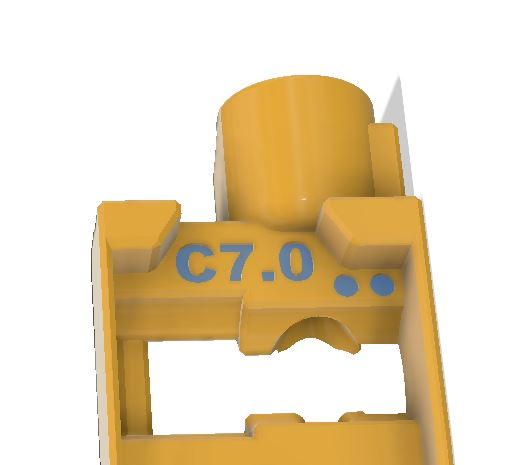
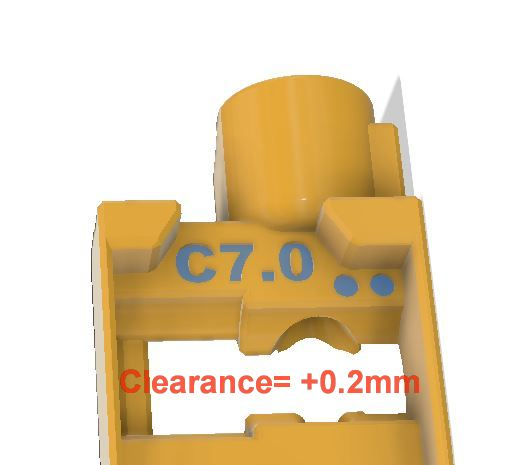
Update STL, images, readme.

Changed region(s): [[0.2367, 0.7828, 0.8284, 0.8731]]

diff --git a/STL/Sturdy Bunny/Rev_C/README.md b/STL/Sturdy Bunny/Rev_C/README.md
@@ -1,33 +1,70 @@
-# **Some notes on how to use the version C6**
+# **Some notes on how to use the version C6 and C7**
 ## **Warning**
-Version  C6 only works with Sturdy Bunny or coming soon V2.
+* **Version  C6 and C7 only works with Sturdy Bunny or coming soon V2.**
+* **Version C7 only works with Happy Hare V2 and his 3 positions servo capability.**
+* **Version C7 tophat can't work if you have the 2 magnets on your encoder cart.**
 
-**For version C, the screw on top of the latch is not needed. You can also use the original latch from the Sturdy Bunny github.**
+* **For best results with the C6 magnet release trap, be sure to use **N52 Magnets** on the encoder and the top of the filament exit. Secure the magnets in the encoder with a drop of glue, otherwise they will pop out when they are above the gate magnet.**
 
-**For best results, be sure to use **N52 Magnets** on the encoder and the top of the filament exit. Secure the magnets in the encoder with a drop of glue, otherwise they will pop out when they are above the gate magnet.**
+ For all versions, print print the latch **[a]Triple_Decky_Latch_RevC6_0.stl** from the folder STL\Sturdy Bunny\Rev_C
 
+## **What to print for Revision C7 for 3 positions servo brake release ONLY ?**
+From folder ..\STL\Sturdy Bunny\Rev_C\Rev_C7.0_3PS_only
+  * print either the **Triple_Decky_Base_C7_0.stl** and the **Triple_Decky_Filament_Path_3PS_C7_0.stl** 
+    * If you experience problems with the parts not fitting freely together, you can try one of the extended clearance options under the **..\STL\Sturdy Bunny\Rev_C\Rev_C7.0_3PS_only\Clearance_options folder.**
+  * print either the tophat : **[a]Triple_Decky_Tophat-Integrated_3PS_C7_0.stl**.
+    * or the optional 2 parts tophat from the ..\STL\Sturdy Bunny\Rev_C\Rev_C7.0_3PS_only\2 parts tophat option folder **[a]Triple_Decky_Half_Tophat-integerated_3PS_C70a.stl** and **[a]Triple_Decky_Half_Tophat-integerated_3PS_C70b.stl**
+  
+From folder ..\STL\Sturdy Bunny\Rev_C\Tag_plates
 
+  * print the multicolor **Triple_Decky_Tag_Plates_X.stl** from the **Tag_Plates** folder for the Triple_Decky_Base
 
+From folder ..\STL\Sturdy Bunny\Rev_C\Traps 
+  * print the trap of your choice from the Traps folder. Experiment to find the one that gives the better holding capability.
+     *  **TD_Base_Trap_C5_Screw.stl** (This one needs a set screw M3x3)
+      *  **TD_Base_Trap_C5_V-Shape.stl**<p>
+
+From folder ..\STL\Sturdy Bunny\Rev_C\Servo_arms_for_3PS
+  * print the servo arm corresponding to your servo.
 
 ## **What to print for Revision C6 for magnet brakes release ?**
+From folder ..\STL\Sturdy Bunny\Rev_C\Rev_C6.3
+  * print the **Triple_Decky_Base_C6_3.stl** 
+  
+From folder ..\STL\Sturdy Bunny\Rev_C\Rev_C6.3\Filament_Path_With_Magnets
 
-  * print the **Triple_Decky_Base_C6_0.stl** 
-  * print **Triple_Decky_Filament_Path_For_Magnet_C6_3.stl** from the folder Filament_Path_with_magnets.
-  * print the multicolor **Triple_Decky_Tag_Plates_X.stl** from the **Base_Tag_Plates** folder for the Triple_Decky_Base
-  * print the tophat : **[a]Triple_Decky_Tophat-Integrated_For_Magnet_C6_2.stl**.
-  * print the latch **[a]Triple_Decky_Latch_RevC6_0.stl**
+  * print **Triple_Decky_Filament_Path_For_Magnet_C6_3.stl** 
+  * print the tophat : **[a]Triple_Decky_Tophat-Integrated_For_Magnet_C6_3.stl**.
+
+From folder ..\STL\Sturdy Bunny\Rev_C\Tag_plates
+
+  * print the multicolor **Triple_Decky_Tag_Plates_X.stl** from the **Tag_Plates** folder for the Triple_Decky_Base
+
+From folder ..\STL\Sturdy Bunny\Rev_C\Traps 
   * print the trap of your choice from the Traps folder. Experiment to find the one that gives the better holding capability.
-    *  **TD_Base_Trap_C5_Screw.stl** (This one needs a set screw M3x3)
-    *  **TD_Base_Trap_C5_V-Shape.stl**<p>
+     *  **TD_Base_Trap_C5_Screw.stl** (This one needs a set screw M3x3)
+      *  **TD_Base_Trap_C5_V-Shape.stl**<p>
 
 ## **What to print for Revision C6 for 3 positions servo brake gates release ?**
+From folder ..\STL\Sturdy Bunny\Rev_C\Rev_C6.3
+  * print the **Triple_Decky_Base_C6_3.stl** 
+  
+From folder ..\STL\Sturdy Bunny\Rev_C\Rev_C6.3\Filament_Path_for_3_position_Servo
 
-  * print the **Triple_Decky_Base_C6_0.stl** 
-  * print **Triple_Decky_Filament_path_3PS_C6_3.stl** from the folder Filament_Path_for_3_position_Servo.
-  * print the multicolor **Triple_Decky_Tag_Plates_X.stl** from the **Base_Tag_Plates** folder for the Triple_Decky_Base
-  * print the tophat : **[a]Triple_Decky_Tophat-integrated_3PS_C6_2.stl**.
-  * print the latch **[a]Triple_Decky_Latch_RevC6_0.stl**
+  * print **Triple_Decky_Filament_Path_3PS_C6_3.stl** 
+  * print the tophat : **[a]Triple_Decky_Tophat-Integrated_3PS_C6_3.stl**.
+
+From folder ..\STL\Sturdy Bunny\Rev_C\Tag_plates
+
+  * print the multicolor **Triple_Decky_Tag_Plates_X.stl** from the **Tag_Plates** folder for the Triple_Decky_Base
+
+From folder ..\STL\Sturdy Bunny\Rev_C\Traps 
   * print the trap of your choice from the Traps folder. Experiment to find the one that gives the better holding capability.
-    *  **TD_Base_Trap_C5_Screw.stl** (This one needs a set screw M3x3)
-    *  **TD_Base_Trap_C5_V-Shape.stl**
- *  optionaly print the Servo Arm MG90S_for_3PS.stl from the folder Filament_Path_for_3_position_Servo.<p>
+     *  **TD_Base_Trap_C5_Screw.stl** (This one needs a set screw M3x3)
+      *  **TD_Base_Trap_C5_V-Shape.stl**<p>
+
+From folder ..\STL\Sturdy Bunny\Rev_C\Servo_arms_for_3PS
+  * print the servo arm corresponding to your servo.
+
+
+

diff --git a/README.md b/README.md
@@ -27,6 +27,37 @@ For people who needs a bypass block, there will be one incorporated in the "fila
 * **[Triple Decky for ERCF 1.1](#triple-decky-for-ercf-v1)**
 ***
 ## Latest updates.
+* #### Triple Decky C7.0 <sub>*Oct 11, 2023*</sub>
+
+  Revision C7.0 brings a few changes to the 3 main parts of Triple Decky. 
+  * The big change is on the tophat that gives 2 alternatives. 
+    * In one single part with a better support
+    * In 2 parts with one support only. The 2 parts are screwed together with M2x10 self tapping screws.
+    * This new revision applies only to the 3 positions servo. I will not be compatible with encoder that has the old magnets that were opening the gates on ERCF V1.1
+  * The filament path has 2 main changes 
+    * It width is reduced by 1 layer (0.2mm) to make sure that they do not rub against each other in case the blocks are installed too tight together.
+    * The main support geometry is changed to be easier to print and removed.
+    * Two optional clearance versions are available in the clearance option folder. This should make it easier to print with "not too well" tuned printers.
+      * the female hinge of Clearance1 is 0.1mm wider than the default part.
+      * the female hinge of Clearance2 is 0.2mm wider than the default part.
+  * The base has no significant changes beside the 2 clearance options. Also available in the clearance options folder.
+  * Tag plates are now available up to 15 gates.
+
+  ##### Tophats C7.0   
+
+<p align=center><img src="Images/TophatC70.JPG" width="250" alt="TophatC70.JPG"> <img src="Images/TophatC70ab.JPG" width="240" alt="TophatC70ab.JPG"></p>
+
+
+On the clearance option parts, there are 1 or 2 dots beside the code "C7.0" for the 0.1mm and 0.2mm wider cavities.
+
+  ##### Filament Path C7.0
+  
+<p align=center><img src="Images/TDFP-C70.JPG" width="200" alt="TDFP-C70.JPG"> <img src="Images/TDFP-C70-C1.JPG" width="200" alt="TDFP-C70-C1.JPG"> <img src="Images/TDFP-C70-C2.JPG" width="220" alt="TDFP-C70-C2.JPG">
+<p align=center><img src="Images/FP-C0.JPG" width="170" alt="FP-C0.JPG"> <img src="Images/FP-C1.JPG" width="200" alt="FP-C1.JPG"> <img src="Images/FP-C2.JPG" width="200" alt="FP-C2.JPG">
+
+  ##### Base C7.0
+
+<p align=center><img src="Images/TD-Base-C70.JPG" width="200" alt="TD-Base-C70.JPG"> <img src="Images/TD-Base-C70-C1.JPG" width="200" alt="TD-Base-C70-C1.JPG"> <img src="Images/TD-Base-C70-C2.JPG" width="220" alt="TD-Base-C70-C2.JPG">
 
 * #### Triple Decky Base C6.3. <sub>*Aug 31, 2023*</sub>
   
@@ -81,7 +112,8 @@ For each block you need :
     * 1 M3x3 set screw. Length: from 2 to 3mm (to install in the trap) (M3x2 can be found in BMG).
     * 2 6x3 magnets (between the base and the filament path)
     * 1 ECAS (on the filament path)
-    * 1 set of BMG (on the D-shaft in the base and in the top hat)<p>
+    * 1 set of BMG (on the D-shaft in the base and in the top hat)
+    * Optional : 2 M2x10 self tapping screws for the 2 parts tophat.<p>
    
    <font size="2">[Summary](#summary)
 *** 
@@ -93,7 +125,16 @@ For each block you need :
   * The 3 main parts are fitting together using a kind of hinge. They should fit together without filing and with a little bit of play. 
   * For unknown reason, Super Slicer and Prusa slicer reports 6 open edges on the filament path STL. **DO NOT try to fix it**, otherwise you will have support that are filled up with infill and more than one perimeter thick. 
   * Make sure you have "Thin wall" enable, otherwise you won't have supports. Set also the speed for thin wall around 50% of the external perimeter speed.
-  * It is also better to print a few spare traps. The sides are quiet thin, and it could be possible to break one if you remove the filament path too often.<p> <font size="2">[Summary](#summary)
+  * It is also better to print a few spare traps. The sides are quiet thin, and it could be possible to break one if you remove the filament path too often.
+  * If you plan to print the tag plates in multicolor :
+    * You already have a working ERCF, then no problem, just print them before assembling ERCF V2
+    * This is your first ERCF build. Then you have 2 possibilities.
+      * You can print them multicolor the old way, by changing color manually. The change of color is only 4 layers high, so it is not so difficult.
+      * You can print them after you have your new ERCF V2 working, and install them.
+        * On the base, you will have to shift each of the bases to allow the insertion of the tag plate
+        * On the Filament Path, just remove it, insert the tag plate and re-install the Filament Path. <p>
+  
+   <font size="2">[Summary](#summary)
 ***
 ## **Cleaning tips:**
   * All support should come off very easily.
